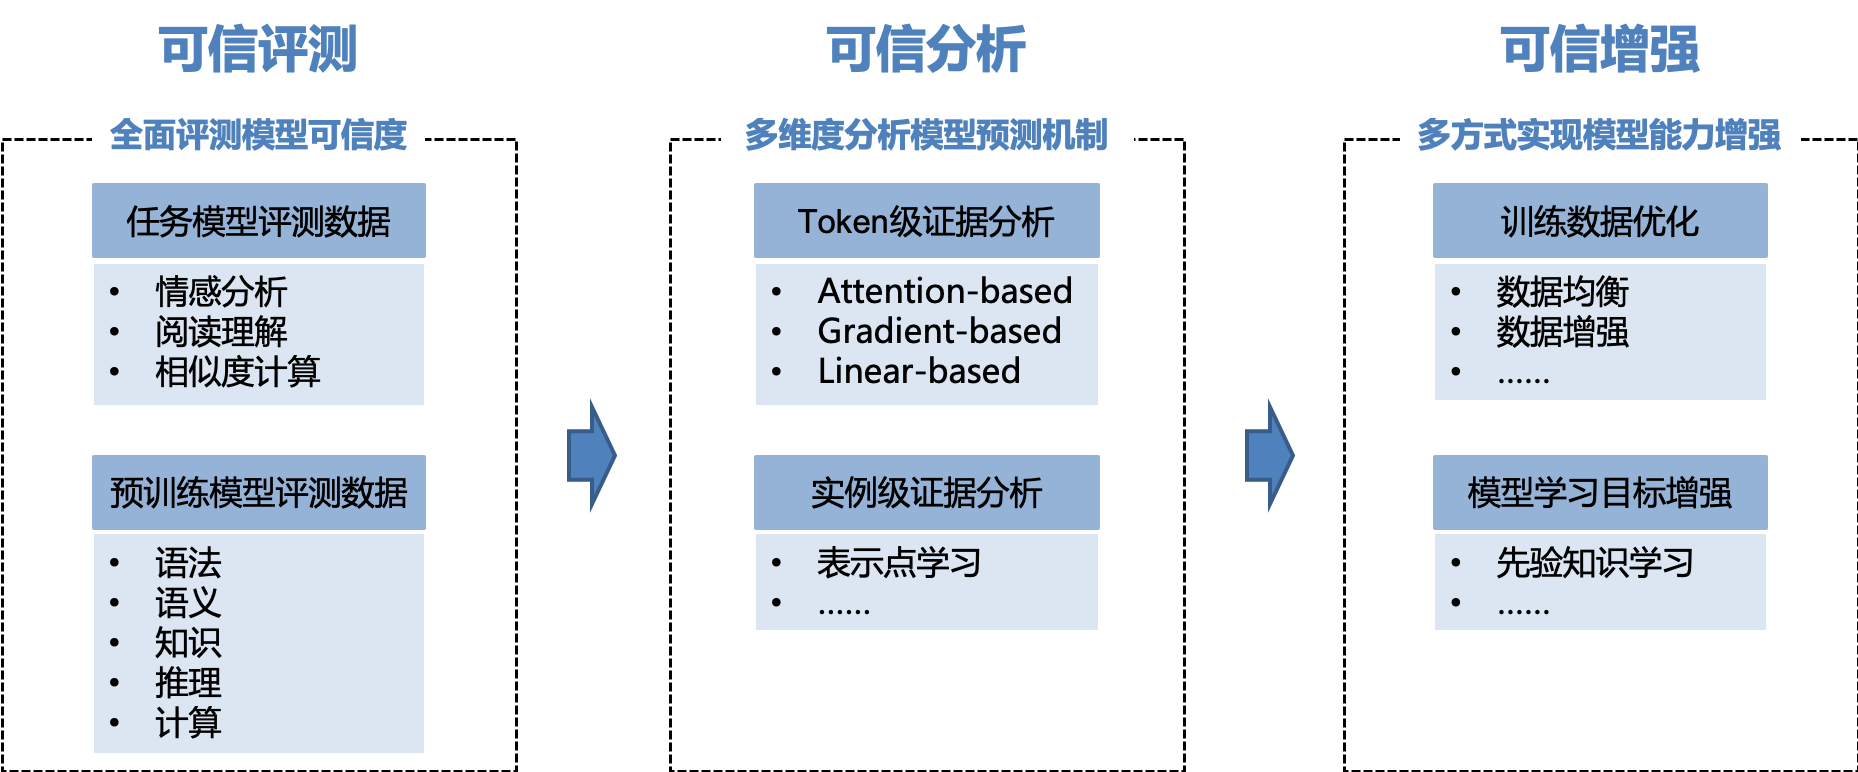
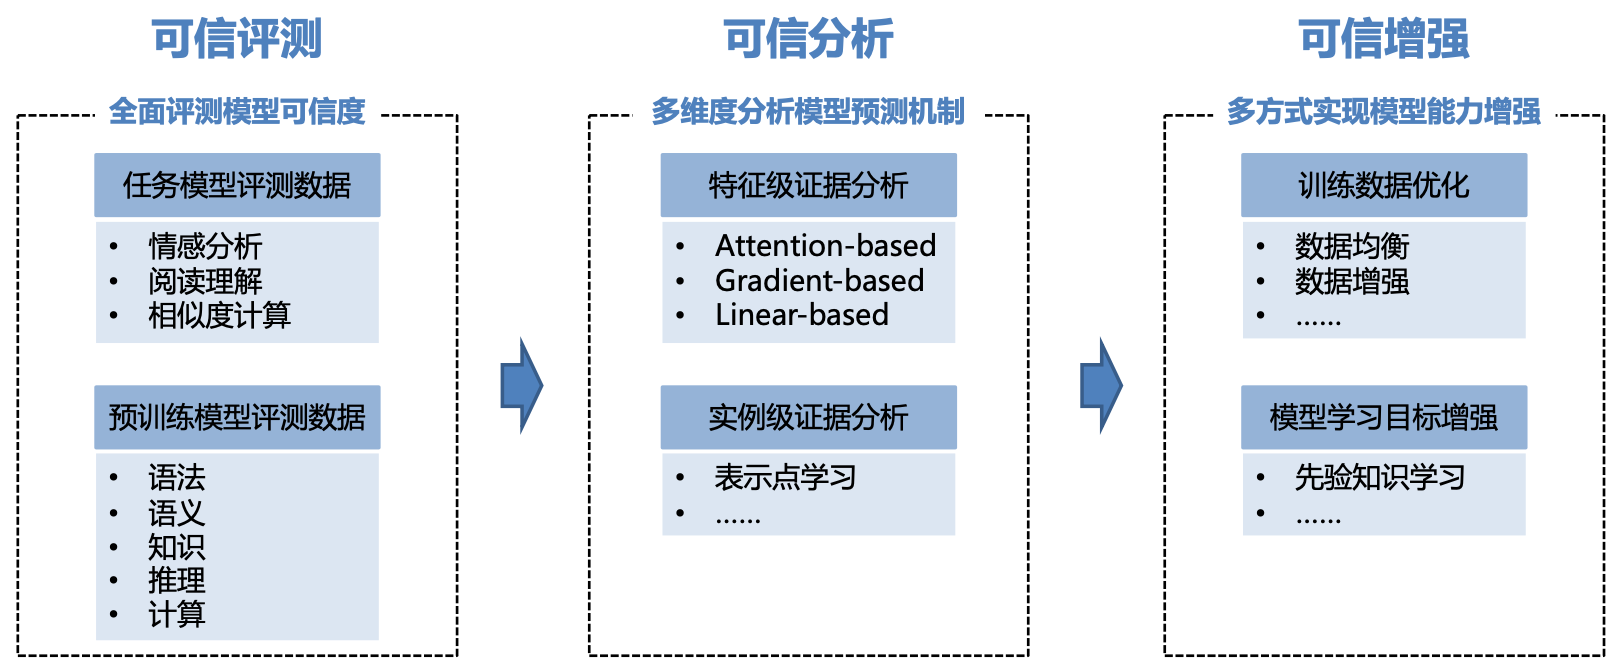
change token_level describe

diff --git a/trustai/interpretation/token_level/README.md b/trustai/interpretation/token_level/README.md
@@ -1,7 +1,7 @@
-# Token级证据分析
+# 特征级证据分析
 
 ## 背景介绍
-Token级证据分析给出模型预测所依据的来自预测文本的若干重要tokens。
+特征级证据分析给出模型预测所依据的来自预测文本的若干重要特征。
 本工具提供了3种主流的证据分析方法，分别是LIME、Attention、Integrated Gradient。同时，我们也封装了InterpretDL中的NormLime、GradShap方法。
 
 ## 使用示例
@@ -27,7 +27,7 @@ ig = IntGradInterpreter(model, device="gpu")
 result = ig(preprocess_fn(data), steps=100)
 
 # attributions的长度与用户切词相同
-# 数值的大小表示对应token对预测结果支持的程度
+# 数值的大小表示对应特征对预测结果支持的程度
 print(result[0].attributions)
 # [ 0.02149865  0.13750568  0.03729623  0.20981199  0.11474895  0.00191162
 #  0.01166647  0.01939347  0.00499799 -0.01771647  0.05467343 -0.05574901
